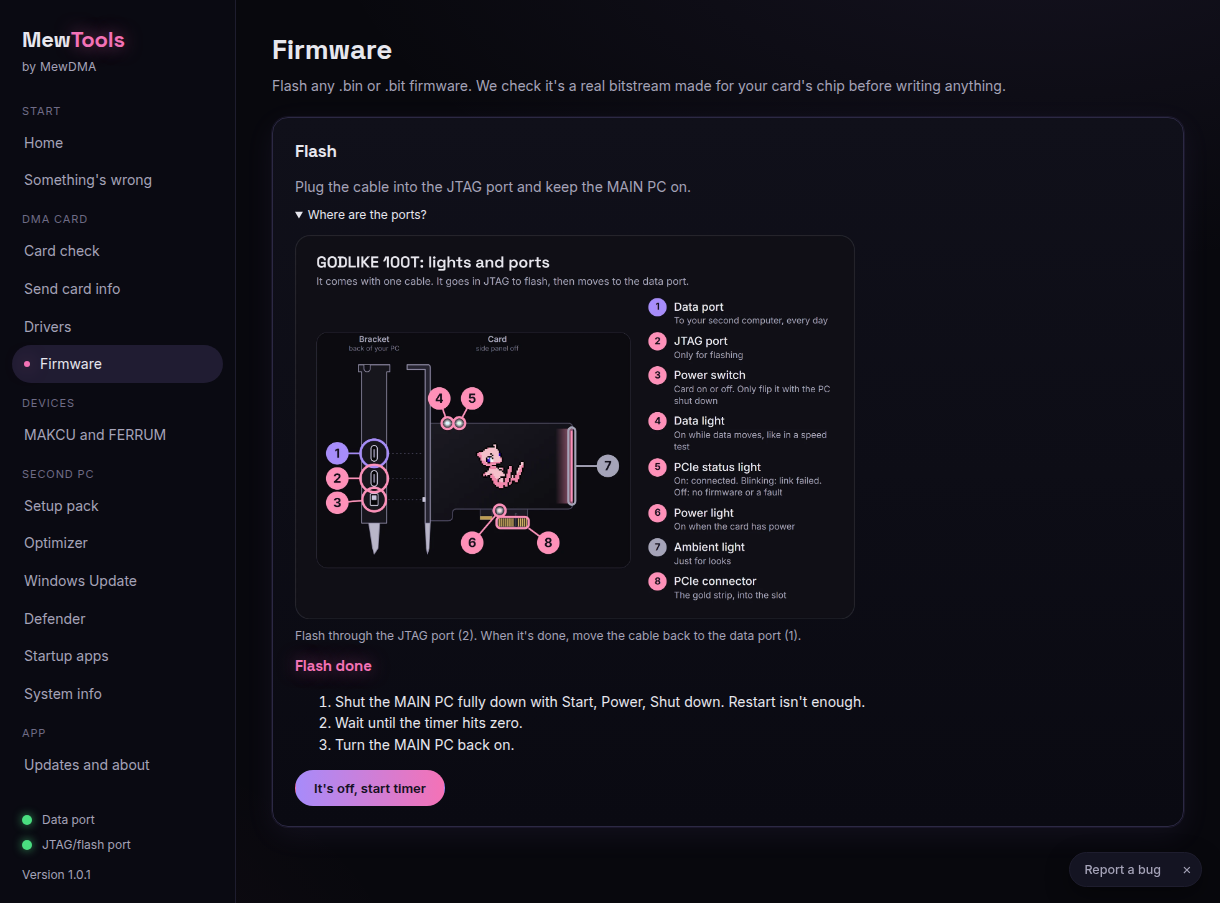
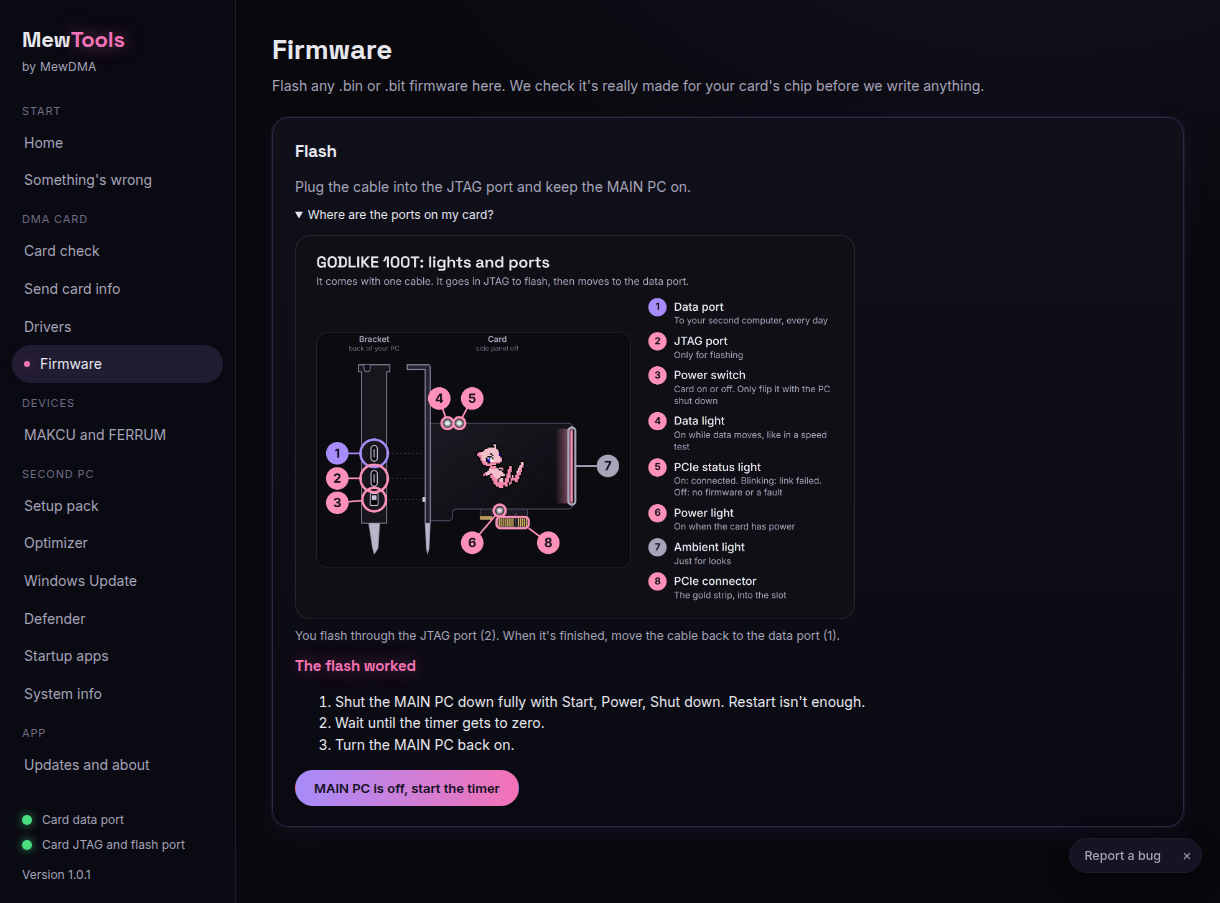
Update guides and screenshots

diff --git a/docs/security.md b/docs/security.md
@@ -1,19 +1,19 @@
 # MewTools security
 
-MewTools runs as administrator on your second PC, so we keep what it can do pretty narrow. This page covers how it handles commands, downloads, updates and files, and what we changed after a security review. There are no secrets in here.
+MewTools runs as administrator on your second PC, so we keep what it can do pretty small. This page covers how it handles commands, downloads, updates and files, and what we changed after a security review. There are no secrets in here.
 
 ## Running commands
 
 - Every outside program gets an **argument list**, never a shell string. File names, COM ports, device ids and URLs go in as separate arguments, so they can't turn into a command. No console window opens, and child processes are killed if the app drops them.
-- PowerShell runs with `-EncodedCommand` (a base64 UTF-16 script) or `-File` on a bundled script, so no shell ever parses the script text. Any value we put into a PowerShell snippet is single-quote escaped first.
-- The bundled PowerShell scripts are hashed at build time and checked on every start, so a changed script gets caught.
+- PowerShell runs with `-EncodedCommand` (a base64 UTF-16 script) or `-File` on a bundled script, so no shell ever reads the script text. Any value we put into a PowerShell snippet gets single-quote escaped first.
+- The bundled PowerShell scripts are hashed at build time and checked on every start, so we catch a changed script.
 
 ## Downloads
 
 - Every download is **HTTPS only**, and the HTTP client won't drop down to plain HTTP.
-- Redirects only go to an **allowlist of official hosts**. A redirect anywhere else is an error.
-- Every file that gets **run or installed is verified before it runs**. That's a published SHA-256 for GitHub release assets, a vendor Authenticode signature for drivers, FTDI's library and Microsoft runtimes, or a checksum baked into the app for backup copies. Nothing runs without a hash or signature check first. If a checksum doesn't match, the file is deleted and the step fails.
-- Downloaded file names are cut down to a plain name with no path separators and no `..`, so a download can't leave its folder. Zip extraction is safe against path traversal too.
+- Redirects can only go to an **allowlist of official hosts**. A redirect anywhere else is an error.
+- Every file that gets **run or installed is verified before it runs**. That's a published SHA-256 for GitHub release assets, or a vendor Authenticode signature for drivers, FTDI's library and Microsoft runtimes. For backup copies it's a checksum built into the app. Nothing runs without a hash or signature check first. If a checksum doesn't match, the file is deleted and the step fails.
+- Downloaded file names get cut down to a plain name with no path separators and no `..`, so a download can't leave its folder. Zip extraction is safe against path traversal too.
 
 ### Official hosts
 
@@ -35,12 +35,12 @@ Links that open in your browser have their own allowlist. That's the hosts above
 ## Updates
 
 - Updates use Tauri's updater with a **signed update file**, and the matching public key is built into the app.
-- The app checks the MewDMA/MewTools releases feed on start and once a day. An update is **downloaded and verified against the public key before anything is installed**, so a fake or tampered update can't run.
-- If a download or check fails, nothing gets applied and your current version keeps working. The private signing key only exists as a CI secret, never in the repo or the installer.
+- The app checks the MewDMA/MewTools releases feed when it starts and once a day. An update is **downloaded and verified against the public key before anything is installed**, so a fake or changed update can't run.
+- If a download or check fails, nothing gets applied and your current version keeps working. The private signing key only lives as a CI secret, never in the repo or the installer.
 
 ## App sandboxing
 
-- The webview only loads the bundled local frontend. Nothing remote gets loaded into the app and the webview makes no network requests itself, because all network stuff happens in the Rust backend.
+- The webview only loads the bundled local frontend. Nothing remote gets loaded into the app and the webview makes no network requests itself, because all the network stuff happens in the Rust backend.
 - We set a strict Content Security Policy. Scripts and connections default to the app itself, with no inline scripts and no remote origins.
 - The frontend only gets a **minimal capability set**: file open and save dialogs, opening allowlisted links, the updater and app restart. Anything privileged goes through specific backend commands we reviewed, not a broad shell or filesystem capability.
 
@@ -50,9 +50,10 @@ Links that open in your browser have their own allowlist. That's the hosts above
 - `%ProgramData%\MewTools` is locked so only Administrators and SYSTEM can write to it. That stops a standard user from swapping a bundled tool or planting a DLL the elevated app would load.
 - Optimizer tweaks change the registry, services, scheduled tasks and power settings. Every change saves the old value first and can be undone, and the app never creates a service entry for a service that isn't there. We make a restore point before applying tweaks.
 
-## Review and hardening
+<a id="review-and-hardening"></a>
+## What we changed after the review
 
-The security review covered command execution, downloads, the flash paths, the update check, the Tauri config and capabilities, file writes and a secret scan of the repo. The app already passed values as argument lists, verified every download it runs and used a locked-down webview. We still added these extra layers after the review:
+The security review covered command execution, downloads, the flash paths, the update check, the Tauri config and capabilities, file writes and a secret scan of the repo. The app already passed values as argument lists, checked every download it runs and used a locked down webview. We still added a few extra checks after the review:
 
 - Redirects now stick to the official host allowlist instead of following any HTTPS redirect.
 - Downloaded file names are checked so they can't contain path separators.
@@ -61,7 +62,7 @@ The security review covered command execution, downloads, the flash paths, the u
 
 ## Dependencies
 
-We check Rust and npm dependencies for known advisories with `cargo audit` and `npm audit`, and update them when something gets flagged.
+We check Rust and npm dependencies for known advisories with `cargo audit` and `npm audit`, and we update them when something gets flagged.
 
 ## Reporting
 

diff --git a/docs/guides/windows-update-and-defender.md b/docs/guides/windows-update-and-defender.md
@@ -1,6 +1,6 @@
 # Using the Windows Update and Defender pages safely
 
-These two pages change real Windows settings, but they're both optional and safe to leave alone. Here's what each switch does, so you only change what you mean to. MewTools makes a restore point first and you can undo every change.
+These two pages change real Windows settings, but they're both optional and you can leave them alone. Here's what each switch does, so you only change what you mean to. MewTools makes a restore point first, and you can undo every change.
 
 ## Windows Update
 
@@ -8,11 +8,11 @@ These two pages change real Windows settings, but they're both optional and safe
 
 Open **Windows Update**. You still get security fixes unless you turn updates fully off. The rest just stops the stuff that gets in the way on a DMA second PC.
 
-- **Driver updates through Windows Update off**: stops Windows from swapping your FTDI, CH347 and CH343 drivers for older ones. Turn this on, because honestly it's the most useful switch on the page.
+- **Driver updates through Windows Update off** stops Windows from swapping your FTDI, CH347 and CH343 drivers for older ones. Turn this on, because honestly it's the most useful switch on the page.
 - **Pause updates**: pick 1 to 5 weeks and click **Pause**. It's the same pause as in Windows Settings, and updates start again by themselves when the time is up.
-- **Security only**: feature updates wait a year and security fixes come after 4 days, with no drivers through Windows Update.
-- **Background apps off**: stops Windows apps from running in the background.
-- **Turn updates fully off**: no updates at all. It's optional, so if you use it, turn it back on when you're done setting up.
+- **Security only** makes feature updates wait a year and security fixes come after 4 days, with no drivers through Windows Update.
+- **Stop background apps** stops Windows apps from running in the background.
+- **Turn updates fully off** means no updates at all. It's optional, so if you use it, turn updates back on when you're done setting up.
 
 If you ever want everything back how Windows had it, click **Windows default**.
 
@@ -20,7 +20,7 @@ If you ever want everything back how Windows had it, click **Windows default**.
 
 ![Defender](../screenshots/defender.png)
 
-Open **Defender**. This page is off by default and it's only for people who know why they need Defender off. Your PC has no virus protection while Defender is off, so most people should really skip this page.
+Open **Defender**. This page is off by default, and it's only for people who know why they need Defender off. Your PC has no virus protection while Defender is off, so most people should really skip this page.
 
 If you do need it off:
 
@@ -29,7 +29,7 @@ If you do need it off:
 
    ![Manage settings on the Virus and threat protection page](../screenshots/defender-manage-settings.png)
 
-3. Scroll to **Tamper Protection** and turn it off (1). Windows blocks every Defender change while Tamper Protection is on, and MewTools never goes around it, so you turn it off yourself.
+3. Scroll to **Tamper Protection** and turn it off (1). Windows blocks every Defender change while Tamper Protection is on. MewTools never goes around it, so you turn it off yourself.
 
    ![The Tamper Protection toggle in Windows Security](../screenshots/tamper-protection.png)
 4. Come back to MewTools and click **Turn Defender off**.

diff --git a/docs/guides/fresh-second-pc.md b/docs/guides/fresh-second-pc.md
@@ -3,23 +3,23 @@
 Run MewTools as administrator and it gets a new Windows install ready for DMA in a few clicks.
 
 ## 1. Runtimes (Setup pack)
-Open **Setup pack** and you'll see the common runtimes and what's already installed. Tick the missing ones and click **Install selected** (1). Everything comes from Microsoft and TechPowerUp, and anything you already have is skipped.
+Open **Setup pack** and you'll see the common runtimes and which ones you already have. Tick the missing ones and click **Install selected** (1). Everything comes from Microsoft and TechPowerUp, and anything you already have gets skipped.
 
 ![Setup pack](../screenshots/setup-pack-steps.png)
 
-Then do the short checklist: update your GPU driver (NVIDIA, AMD or Intel), sync the date and time, and install the card drivers.
+Then go through the short checklist. Update your GPU driver (NVIDIA, AMD or Intel), sync the date and time, and install the card drivers.
 
 ## 2. Drivers
 Open **Drivers** and install FTDI, CH347 and CH343. See [Installing drivers](installing-drivers.md).
 
 ## 3. Optimizer
-Open **Optimizer**. The **DMA second PC** group is on by default, so you get the high performance power plan, USB power saving off (so the card doesn't drop), sleep off, no update restarts while you're signed in and more. We make a restore point first and you can undo every change.
+Open **Optimizer**. The **DMA second PC** group is on by default. It switches to the high performance power plan, turns off USB power saving (so the card doesn't drop), turns off sleep, stops update restarts while you're signed in and a bit more. We make a restore point first, and you can undo every change.
 
 ![Optimizer](../screenshots/optimizer.png)
 
 I'd leave the safe tweaks on. The optional ones (marked in amber) stay off unless you want them.
 
 ## 4. Check it works
-Open **Something's wrong** and click **Check everything**. It checks the card, drivers, ports, power, network and monitors. Then **Copy summary** (1) gives you a summary to paste into a ticket.
+Open **Something's wrong** and click **Check everything**. It checks the card, drivers, ports, power, network and monitors. Then click **Copy summary** (1) and you've got a summary to paste into a ticket.
 
 ![Something's wrong](../screenshots/doctor-report-steps.png)

diff --git a/docs/guides/sending-a-report-in-a-ticket.md b/docs/guides/sending-a-report-in-a-ticket.md
@@ -1,6 +1,6 @@
 # Sending a Something's wrong report
 
-The report from the **Something's wrong** page is honestly the fastest way for us to help. It checks the whole second PC in one go and gives you a summary to paste into your ticket. It has no personal files, just the card, drivers, ports, power, network and monitors.
+The report from the **Something's wrong** page is honestly the fastest way for us to help you. It checks the whole SECOND PC in one go and gives you a summary to paste into your ticket. There are no personal files in it, just the card, drivers, ports, power, network and monitors.
 
 ![Check everything, then copy the summary](../screenshots/doctor-report-steps.png)
 
@@ -8,13 +8,13 @@ The report from the **Something's wrong** page is honestly the fastest way for u
 
 1. Open **Something's wrong** and click **Check everything**. It takes a few seconds.
 2. Read the rows if you like. Green is fine, amber is a heads up and red is a problem. Each red one links to a guide.
-3. Click **Copy summary** (1) and the whole report is on your clipboard.
+3. Click **Copy summary** (1) and the whole report goes to your clipboard.
 4. Open your ticket at mewdma.net and paste it in (Ctrl+V). Add a line about what you were doing when it went wrong.
 
 ## What's in the report
 - Card chip and DNA ID read result
 - Driver versions (FTDI, CH347, CH343)
-- Which USB ports the card is on and the speed
+- Which USB ports the card is on and how fast they are
 - Power plan and USB power saving
 - Network and monitor checks
 - MewTools version
@@ -22,4 +22,4 @@ The report from the **Something's wrong** page is honestly the fastest way for u
 ## Good to know
 - Keep the MAIN PC on when you run it, so the card has power and the card checks can run.
 - The summary is plain text, so you can read it before you send it.
-- If a red row links to a guide, try that first. A lot of stuff gets fixed in one click.
+- If a red row links to a guide, try that first, because a lot of stuff gets fixed in one click.

diff --git a/docs/guides/dna-id-and-msinfo32.md b/docs/guides/dna-id-and-msinfo32.md
@@ -1,19 +1,19 @@
 # DNA ID and msinfo32
 
-Your **DNA ID** is your card's unique number, and MewTools reads it on the SECOND PC (the one the card plugs into). See [Getting your DNA ID](getting-your-dna-id.md).
+Your **DNA ID** is your card's own unique number. MewTools reads it on the SECOND PC (the one the card plugs into). See [Getting your DNA ID](getting-your-dna-id.md).
 
-**msinfo32** is a Windows system report, and you only need it if your firmware provider asks for it. We do, so MewDMA customers send an msinfo32 file from the **MAIN PC** (the gaming PC) along with their DNA ID. If your provider doesn't ask, skip it.
+**msinfo32** is a Windows system report, and you only need it if your firmware provider asks for it. We do ask, so MewDMA customers send an msinfo32 file from the **MAIN PC** (the gaming PC) along with their DNA ID. If your provider doesn't ask, just skip it.
 
 ## Saving msinfo32
 
-Do this on the MAIN PC, not the second PC.
+Do this on the MAIN PC, not the SECOND PC.
 
 1. Press **Windows key + R**, type **msinfo32** and press Enter.
 2. In the System Information window, click **File**, then **Save** (or **Export**).
-3. Save it somewhere easy like your Desktop. The default **.nfo** is fine, and Export makes a **.txt**. Either works.
-4. Upload that file to the same order as your DNA ID at mewdma.net.
+3. Save it somewhere easy like your Desktop. The default **.nfo** is fine and Export makes a **.txt**, so either works.
+4. Upload that file at mewdma.net to the same order as your DNA ID.
 
 ## Tips
-- It has to come from the MAIN PC, because the second PC's report isn't what we need.
+- It has to come from the MAIN PC, because the SECOND PC's report isn't what we need.
 - Save it while your usual hardware is plugged in and running normally.
-- There are no personal files in it, just a hardware and driver report.
+- There are no personal files in it. It's just a hardware and driver report.

diff --git a/docs/guides/fixing-a-high-com-port.md b/docs/guides/fixing-a-high-com-port.md
@@ -2,16 +2,16 @@
 
 Some flashing tools only talk to COM ports below 10. If your MAKCU or card shows up as COM 10, COM 14 and so on, move it down. You only do this once per device.
 
-MewTools shows a note on the **MAKCU and FERRUM** page when it spots a high COM number, and this guide is behind it.
+MewTools shows a note on the **MAKCU and FERRUM** page when it spots a high COM number, and this guide is behind that note.
 
 ## Move the port below 10
 
 1. Press the Windows key, type **Device Manager** and open it.
-2. Open **Ports (COM & LPT)** (1) and find your device. The MAKCU is a USB-SERIAL CH343 and the card's JTAG is a CH347.
+2. Open **Ports (COM & LPT)** (1) and find your device. The MAKCU shows up as USB-SERIAL CH343 and the card's JTAG is a CH347.
 3. Right click it and choose **Properties**.
 4. Go to the **Port Settings** tab and click **Advanced**.
 5. Open the **COM Port Number** dropdown (4) and pick a free number under 10, like COM 3 or COM 4.
-6. Click OK on both windows. If Windows says the number is in use, just pick another low one. Honestly it's usually safe either way, because the old owner is often a device you don't plug in anymore.
+6. Click OK on both windows. If Windows says the number is in use, just pick another low one. Honestly it's usually fine either way, because the old owner is often a device you don't plug in anymore.
 7. Unplug the device and plug it back in, and it should show the new number.
 
 ![Device Manager, Ports and the COM Port Number picker](../screenshots/com-port-fix.png)
@@ -21,4 +21,4 @@ Open **MAKCU and FERRUM** again and the port picker shows the new number. Pick i
 
 ## Tips
 - Plug the MAKCU into the same USB port every time, so Windows keeps the same COM number.
-- If you swap USB ports a lot you might get a high number again. Just repeat these steps.
+- If you swap USB ports a lot you might get a high number again, so just repeat these steps.

diff --git a/docs/guides/getting-your-dna-id.md b/docs/guides/getting-your-dna-id.md
@@ -2,17 +2,17 @@
 
 Your DNA ID is your card's unique number, and we need it to build your firmware. You do this on the SECOND PC, the one the card's cables plug into.
 
-You only need msinfo32 if your firmware provider asks for it. We do, so MewDMA customers also send an msinfo32 file from the MAIN PC. See [DNA ID and msinfo32](dna-id-and-msinfo32.md) for how to save it.
+You only need msinfo32 if your firmware provider asks for it. We do ask, so MewDMA customers also send an msinfo32 file from the MAIN PC. See [DNA ID and msinfo32](dna-id-and-msinfo32.md) for how to save it.
 
 ## Steps
 
-1. Plug both card cables into the second PC, open MewTools and go to **Card check**. Both dots should be green.
+1. Plug both card cables into the SECOND PC, open MewTools and go to **Card check**. Both dots should be green.
 
    ![Card check](../screenshots/card-check.png)
 
-2. In the **Your card** box click **Read card**. It shows the chip size (35T, 75T or 100T), the IDCODE and the DNA ID.
+2. In the **Your card** box, click **Read card**. It shows the chip size (35T, 75T or 100T), the IDCODE and the DNA ID.
 
-3. Click **Copy** next to the one you need, or **Copy all** (1). You can also open **Send card info** and send it straight to your order.
+3. Click **Copy** next to the one you need, or click **Copy all** (1). You can also open **Send card info** and send it straight to your order.
 
    ![Read the chip, read the DNA ID, copy it](../screenshots/card-dna-copy-steps.png)
 
@@ -39,6 +39,6 @@ You only need msinfo32 if your firmware provider asks for it. We do, so MewDMA c
    ![Upload msinfo32](../screenshots/dna-site-msinfo32.png)
 
 ## If the DNA ID won't read
-- Keep the MAIN PC on so the card has power.
+- Keep the MAIN PC on, because that's where the card gets its power.
 - Replug the JTAG/flash cable.
 - If it still fails, open **Something's wrong**, copy the summary and send it with your ticket.

diff --git a/docs/guides/flashing-firmware.md b/docs/guides/flashing-firmware.md
@@ -2,24 +2,24 @@
 
 MewTools flashes any .bin or .bit firmware, but first it checks the file is a real bitstream made for your card's chip.
 
-Keep the MAIN PC on the whole time and don't touch the cables while it writes.
+Keep the MAIN PC on the whole time, and don't touch the cables while it writes.
 
 ## Steps
 
 1. Open **Firmware** and click **Pick firmware file**, then pick the firmware from your order.
 
-2. MewTools shows the file name, its SHA-256 and three green checks: the file's chip, your card's chip and the package. If anything is red, it tells you why and won't flash.
+2. MewTools shows the file name, its SHA-256 and three green checks for the file's chip, your card's chip and the package. If anything is red, it tells you why and won't flash.
 
 3. Click **Flash** (2) and confirm. It takes about a minute, so don't unplug anything.
 
    ![Flash the firmware](../screenshots/firmware-review-steps.png)
 
-4. When it's done, fully shut the MAIN PC down (Start, Power, Shut down, not restart). Then click **The main PC is off, start the timer** (3) and wait for the ring to hit zero.
+4. When it's done, fully shut the MAIN PC down (Start, Power, Shut down, not restart). Then click **MAIN PC is off, start the timer** (3) and wait for the ring to hit zero.
 
    ![Shut down the main PC, then start the timer](../screenshots/firmware-power-cycle-steps.png)
 
-5. Turn the main PC back on and check the card again.
+5. Turn the MAIN PC back on and check the card again.
 
 ## If the flash fails
-- Keep the main PC on, replug the JTAG/flash cable and click **Retry**.
+- Keep the MAIN PC on, replug the JTAG/flash cable and click **Retry**.
 - Wrong chip? MewTools blocks it and tells you which chip the file is for, so grab the firmware made for your card.

diff --git a/docs/guides/speed-test-ratings.md b/docs/guides/speed-test-ratings.md
@@ -4,7 +4,7 @@ The speed test reads from your card for a few seconds and gives you a read speed
 
 ![Run the speed test](../screenshots/card-speed-steps.png)
 
-Open **Card check**, pick a test and click **Run test** (1). Quick check measures both numbers. Speed is how many small 4 KB reads per second the card does, and throughput is MB/s on big reads. The rating is based on throughput. Stability runs each one for 60 seconds and shows min, average and max.
+Open **Card check**, pick a test and click **Run test** (1). Quick check measures both numbers. Speed is how many small 4 KB reads the card does per second, and throughput is MB/s on big reads. The rating is based on throughput. Stability runs each one for 60 seconds and shows min, average and max.
 
 ## What the ratings mean
 
@@ -33,8 +33,8 @@ You want Good or Great. OK still works fine, but you're leaving speed on the tab
 ## If you're on Fail or OK and expected more
 - Plug the FT601 data cable straight into a USB 3 port on the back of the PC, not a hub and not a front port.
 - The port should be USB 3 (blue, or labelled SS). Card check shows which one you're on.
-- Close heavy programs on the second PC while you test.
-- Run the **Optimizer** DMA second PC group, because it turns off USB power saving so the card doesn't get throttled.
+- Close heavy programs on the SECOND PC while you test.
+- Run the **Optimizer** DMA second PC group, because it turns off USB power saving so the card doesn't get slowed down.
 - Make sure the FTDI D3XX driver is installed on the **Drivers** page.
 
-If it still won't climb, open **Something's wrong**, copy the summary and send it with your ticket.
+If it still won't go up, open **Something's wrong**, copy the summary and send it with your ticket.

diff --git a/docs/guides/installing-drivers.md b/docs/guides/installing-drivers.md
@@ -1,22 +1,22 @@
 # Installing drivers
 
-MewTools installs the card and MAKCU drivers straight from the official FTDI and WCH sites, and it checks each file is signed before it runs.
+MewTools installs the card and MAKCU drivers straight from the official FTDI and WCH sites. It checks each file is signed before it runs.
 
 ## Steps
 
-1. Open **Drivers**. Each driver gets a green dot if it's installed and red if it's missing.
+1. Open **Drivers**. Each driver gets a green dot if it's installed and a red dot if it's missing.
 
-2. Click **Install** (1) next to any red one and it downloads and installs by itself. Click **Reinstall** if you're fixing a driver problem.
+2. Click **Install** (1) next to any red one, and it downloads and installs by itself. If you're fixing a driver problem, click **Reinstall**.
 
    ![Install a driver](../screenshots/drivers-steps.png)
 
-3. What each one is for:
+3. Here's what each one is for:
    - **FTDI D3XX** is the card's data port (FT601).
    - **CH347** is the card's JTAG/flash port on newer cards.
    - **CH343** is the MAKCU.
 
 ## Stop Windows from swapping them
-Windows Update can replace these with older drivers. Open **Windows Update** in MewTools and turn on **Driver updates through Windows Update off**.
+Windows can swap these for older drivers (driver updates in Windows Update). Open **Windows Update** in MewTools and turn on **Driver updates through Windows Update off**, and it stops.
 
 ## 35T cards with an FTDI JTAG port
 Some 35T cards use an FTDI "Quad RS232-HS" for the JTAG/flash port, so MewTools shows a **Set up WinUSB** button on the Card check screen. Click it once and the flasher can talk to the card. You can undo it any time.

diff --git a/docs/guides/flashing-makcu.md b/docs/guides/flashing-makcu.md
@@ -3,9 +3,11 @@
 You flash MAKCU v4 with the official MAKCU Toolkit, not with MewTools.
 
 1. Open **MAKCU and FERRUM** in MewTools and click **Open MAKCU Toolkit**, or go to [makcu.com/toolkit](https://makcu.com/toolkit).
-2. Plug the MAKCU into the port the Toolkit shows (USB2) and follow it.
-3. Full steps with pictures are at [mewdma.net/guides/updating-makcu-to-v4](https://mewdma.net/guides/updating-makcu-to-v4).
+2. Plug the MAKCU into the port the Toolkit shows (USB2) and follow its steps.
+3. The full steps with pictures are at [mewdma.net/guides/updating-makcu-to-v4](https://mewdma.net/guides/updating-makcu-to-v4).
 
 ![MAKCU and FERRUM page](../screenshots/makcu-steps.png)
 
-The same page finds the MAKCU COM port too. It should be below 10, and the page shows how to fix it if it's not. For FERRUM, click **Find FERRUM**, then **Test mouse move** and **Test click**. MewTools sends a small move and a left click and asks if you saw them on the MAIN PC.
+The same page finds the MAKCU COM port too. It should be below 10, and if it's not, the page shows you how to fix it.
+
+For FERRUM, click **Find FERRUM**, then **Test mouse move** and **Test click**. MewTools sends a small move and a left click, then asks if you saw them on the MAIN PC.

diff --git a/README.md b/README.md
@@ -110,6 +110,7 @@ Every error has a code like MT-101 with the fix. Full list at <a href="https://m
 
 
 
+
 <!-- mewtools-guides -->
 ## Guides
 
